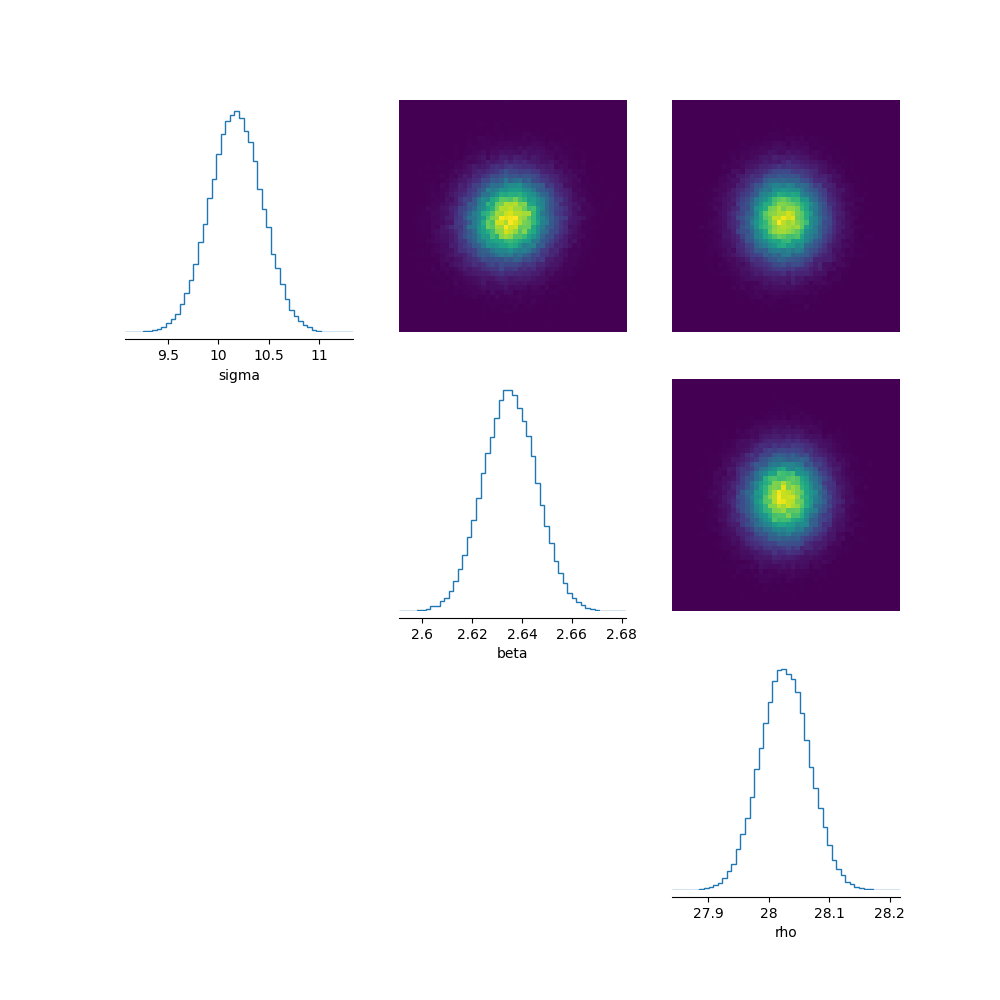
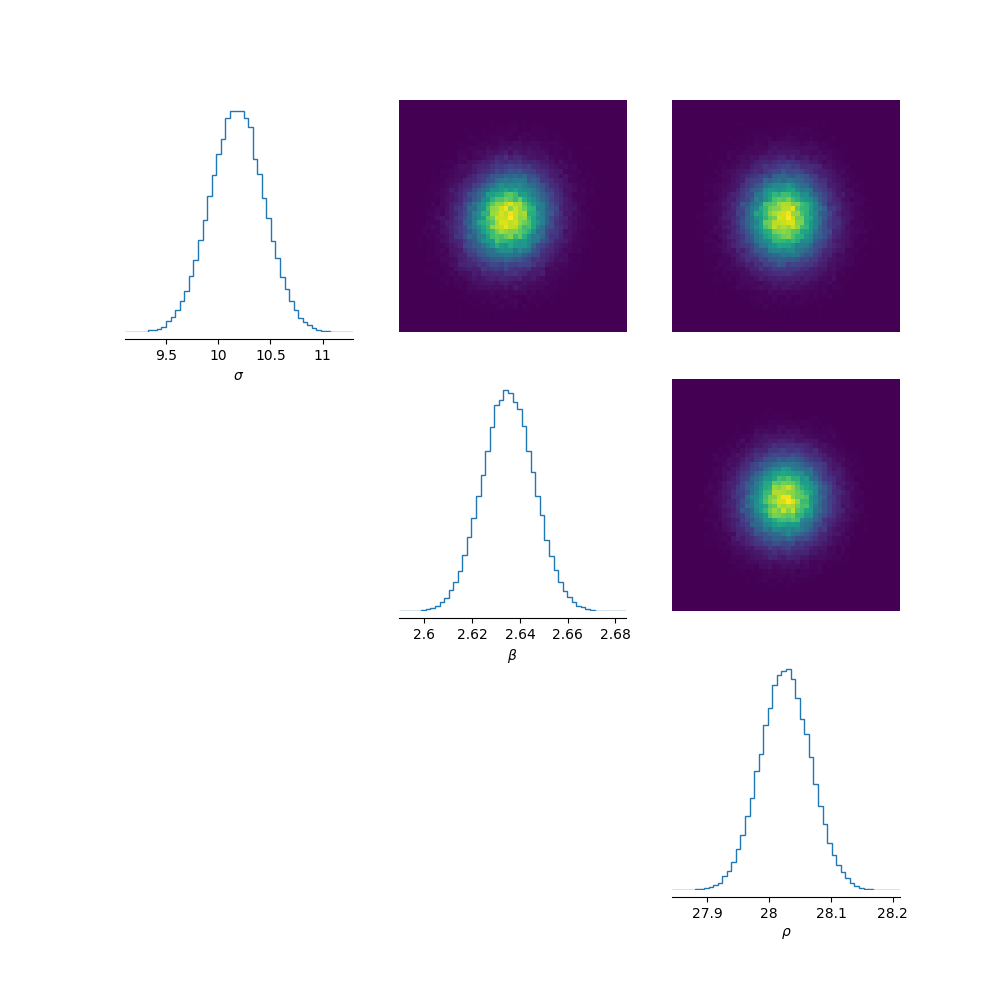
update figure and readme

diff --git a/posterior.py b/posterior.py
@@ -37,6 +37,6 @@ if __name__=="__main__":
     posterior.set_default_x(obs_x)
     posterior_samples = posterior.sample((num_samples,))
 
-    fig, ax = pairplot(samples=posterior_samples, labels=["sigma", "beta", "rho"], figsize=(10, 10))
+    fig, ax = pairplot(samples=posterior_samples, labels=[r"$\sigma$", r"$\beta$", r"$\rho$"], figsize=(10, 10))
     plt.savefig("png/pairplot.png")
 

diff --git a/README.md b/README.md
@@ -1,5 +1,11 @@
 # Lorenz SBI
 Repository for running simulation based inference (SBI) pipeline on the simple Lorenz system. The Lorenz system has 3 parameters ($\sigma$, $\beta$, and $\rho$) and a set of summary statistics (*mean*, *covariance*, *correlation*, *eigvalues*, *lyapunov exponents*) based on which the neural network will train.
+This repository is made for educational purposes and serves as a starting point to implement your own models!
+
+The figure shows an example inferred posterior. The real parameters are: $\sigma = 10$, $\beta = \frac{8}{3}$, and $\rho = 28$. The trained network was able to recover these parameters using only the observation statistics.
+
+![example pairplot](png/pairplot.png)
+
 
 ## Installation on Linux
 Create virtual environment
@@ -40,5 +46,3 @@ python3 posterior.py
 ```
 
 Many settings can be altered. This repository is made for educational purposes and serves as a starting point to implement your own models.
-
-![example pairplot](png/pairplot.png)
